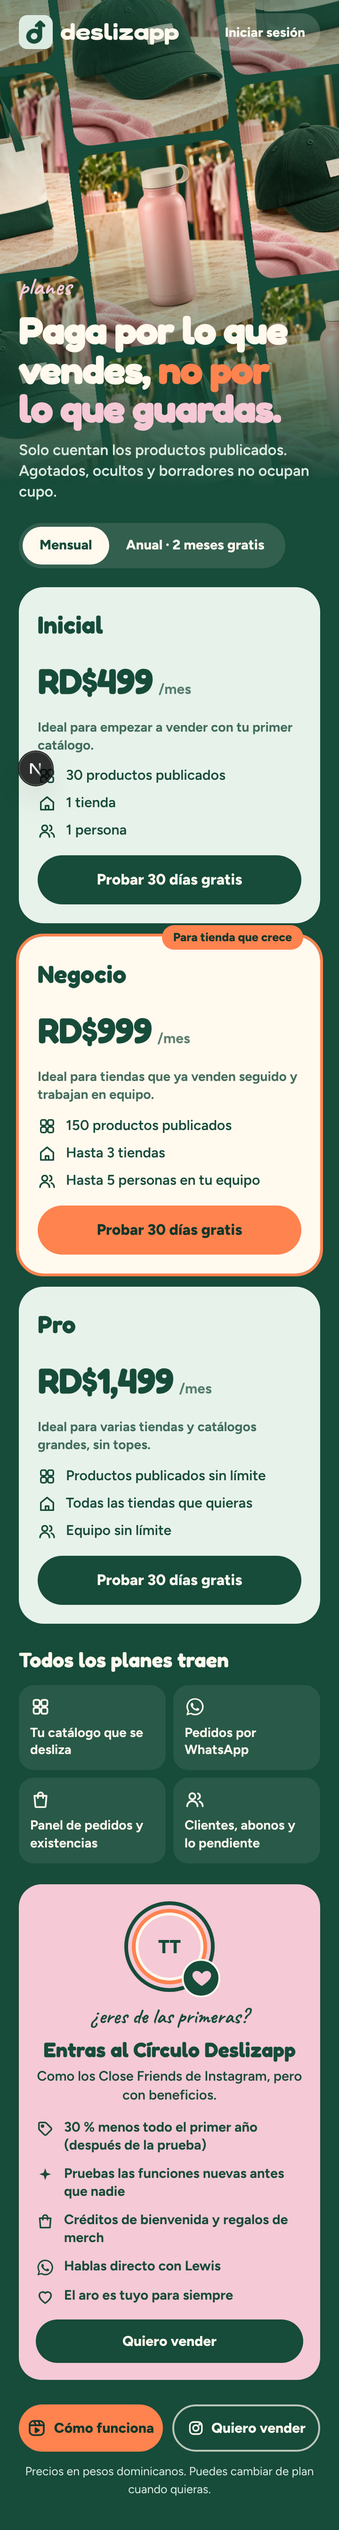
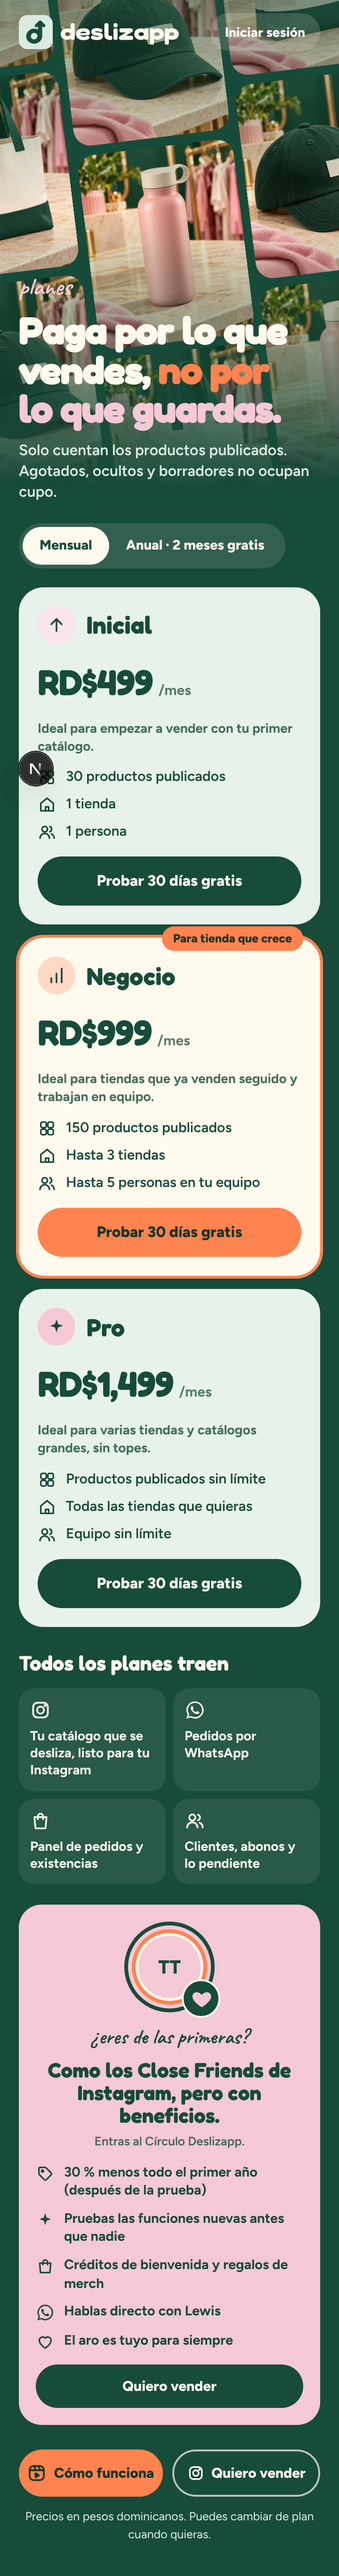
/planes: tagline grande en la tarjeta del Círculo, insignia por plan, tarjeta de Instagram; IconoBarras
Claude-Session: https://claude.ai/code/session_01NZFN1xw2rtVGywTawbCJGm

Changed region(s): [[0.0, 0.0, 1.0, 0.9659], [0.7944, 0.9347, 0.8861, 0.9659], [0.0917, 0.9347, 0.1222, 0.9659]]

diff --git a/components/planes/lista-planes.tsx b/components/planes/lista-planes.tsx
@@ -3,13 +3,23 @@
 import { useState } from "react";
 import { entrarConGoogle } from "@/lib/data/sesion";
 import { limitesDe, precioDe, type PlanPublico } from "@/lib/planes/planes";
-import { IconoCasa, IconoCatalogo, IconoClientes } from "../iconos";
+import { IconoBarras, IconoCasa, IconoCatalogo, IconoChispa, IconoClientes, IconoFlechaArriba } from "../iconos";
 import { registrarEvento } from "@/lib/medicion/registrar-evento";
 
 const DIAS_DE_PRUEBA = 30;
 
 /** El icono de cada límite, los mismos de la app: Catálogo (productos), Casa (tiendas) y Clientes (el de «Tu equipo»). */
 const ICONO_LIMITE = { productos: IconoCatalogo, tiendas: IconoCasa, personas: IconoClientes } as const;
+
+/**
+ * La insignia de cada plan, a la izquierda del nombre (40 px): Inicial empieza (flecha que sube), Negocio crece (barras), Pro llega
+ * más lejos (chispa). Un plan nuevo sin insignia aquí sale sin ella.
+ */
+const INSIGNIA_PLAN: Record<string, { Icono: typeof IconoBarras; fondo: string }> = {
+  inicial: { Icono: IconoFlechaArriba, fondo: "#FBE4EB" },
+  negocio: { Icono: IconoBarras, fondo: "#FFD9C6" },
+  pro: { Icono: IconoChispa, fondo: "#F5C9D6" },
+};
 
 /** El selector Mensual / Anual y las tarjetas de cada plan. «Probar 30 días gratis» lleva a Google y, de ahí, al onboarding. */
 export function ListaPlanes({ planes }: { planes: PlanPublico[] }) {
@@ -58,7 +68,17 @@ export function ListaPlanes({ planes }: { planes: PlanPublico[] }) {
           return (
             <article key={p.id} className="pl-plan" data-destacado={p.destacado ? "si" : "no"} data-plan={p.id}>
               {p.destacado && <span className="pl-etiqueta">Para tienda que crece</span>}
-              <h2>{p.nombre}</h2>
+              <div className="pl-cabeza">
+                {INSIGNIA_PLAN[p.id] && (
+                  <span className="pl-insignia" style={{ background: INSIGNIA_PLAN[p.id]!.fondo }} data-insignia={p.id} aria-hidden="true">
+                    {(() => {
+                      const Icono = INSIGNIA_PLAN[p.id]!.Icono;
+                      return <Icono tamano={22} />;
+                    })()}
+                  </span>
+                )}
+                <h2>{p.nombre}</h2>
+              </div>
               <div className="pl-precio">
                 <b data-precio>{precio}</b>
                 <span>{periodo}</span>

diff --git a/components/planes/pagina-planes.tsx b/components/planes/pagina-planes.tsx
@@ -2,7 +2,7 @@ import Link from "next/link";
 import type { FotoInicio } from "@/lib/inicio/fotos";
 import { ENLACE_QUIERO_VENDER, RUTA_CONOCE } from "@/lib/landing/enlaces";
 import type { PlanPublico } from "@/lib/planes/planes";
-import { IconoBolsa, IconoCatalogo, IconoChispa, IconoClientes, IconoCorazon, IconoEtiqueta, IconoInstagram, IconoPedidos, IconoReels, IconoWhatsApp } from "../iconos";
+import { IconoBolsa, IconoChispa, IconoClientes, IconoCorazon, IconoEtiqueta, IconoInstagram, IconoPedidos, IconoReels, IconoWhatsApp } from "../iconos";
 import { LogoTienda } from "../panel/logo-tienda";
 import { FeedFondo } from "../inicio-publico/feed-fondo";
 import "../inicio-publico/pagina-principal.css";
@@ -10,7 +10,7 @@ import { ListaPlanes } from "./lista-planes";
 import "./pagina-planes.css";
 
 const INCLUYE = [
-  { Icono: IconoCatalogo, texto: "Tu catálogo que se desliza" },
+  { Icono: IconoInstagram, texto: "Tu catálogo que se desliza, listo para tu Instagram" },
   { Icono: IconoWhatsApp, texto: "Pedidos por WhatsApp" },
   { Icono: IconoPedidos, texto: "Panel de pedidos y existencias" },
   { Icono: IconoClientes, texto: "Clientes, abonos y lo pendiente" },
@@ -77,8 +77,8 @@ export function PaginaPlanes({ planes, fotos }: { planes: PlanPublico[]; fotos: 
         <aside className="pl-fundadoras" data-fundadoras>
           <LogoTienda tienda={TIENDA_EJEMPLO} tamano={96} />
           <span className="pl-fundadoras-sobre">¿eres de las primeras?</span>
-          <h2>Entras al Círculo Deslizapp</h2>
-          <p>Como los Close Friends de Instagram, pero con beneficios.</p>
+          <h2>Como los Close Friends de Instagram, pero con beneficios.</h2>
+          <p className="pl-fundadoras-entras">Entras al Círculo Deslizapp.</p>
           <ul className="pl-beneficios">
             {BENEFICIOS_CIRCULO.map(({ Icono, texto }) => (
               <li key={texto}>

diff --git a/app/diseno/guia.tsx b/app/diseno/guia.tsx
@@ -5,6 +5,7 @@ import { LogoTienda } from "@/components/panel/logo-tienda";
 import tokens from "@/referencias/sistema-de-diseno/tokens.json";
 import { CARTAS_JUGADAS, lineaJugada } from "@/lib/proxima-jugada";
 import {
+  IconoBarras,
   IconoBuscar,
   IconoCamion,
   IconoCheck,
@@ -811,6 +812,7 @@ function Iconos() {
     ["Despachar", <IconoCamion key="d" tamano={20} strokeWidth={2.2} />],
     ["Abono", <IconoMoneda key="m" tamano={20} strokeWidth={2.2} />],
     ["Abrir", <IconoChevronDerecha key="a" tamano={20} strokeWidth={2.2} />],
+    ["Crecer", <IconoBarras key="g" tamano={20} strokeWidth={2.2} />],
   ];
   return (
     <Seccion numero="15" titulo="Iconos" nota="Trazo 2.2, puntas redondeadas. 20 px normal, 24 en la barra, 16 en etiquetas.">

diff --git a/components/planes/pagina-planes.css b/components/planes/pagina-planes.css
@@ -165,6 +165,20 @@ html:has(.pl) body {
   font-weight: 700;
   font-size: 26px;
 }
+.pl-cabeza {
+  display: flex;
+  align-items: center;
+  gap: 12px;
+}
+.pl-insignia {
+  flex: none;
+  display: grid;
+  place-items: center;
+  width: 40px;
+  height: 40px;
+  border-radius: 50%;
+  color: var(--marca-bosque);
+}
 .pl-etiqueta {
   position: absolute;
   top: -12px;
@@ -317,6 +331,10 @@ html:has(.pl) body {
   font-weight: 600;
   font-size: 14.5px;
   line-height: 1.4;
+}
+.pl-fundadoras .pl-fundadoras-entras {
+  font-size: 13px;
+  opacity: 0.8;
 }
 .pl-beneficios {
   display: flex;

diff --git a/components/iconos.tsx b/components/iconos.tsx
@@ -146,6 +146,15 @@ export const IconoFlechaArriba = (p: Props) => (
   </Icono>
 );
 
+/** Tres barras que van subiendo (crecer): la insignia del plan Negocio en /planes. */
+export const IconoBarras = (p: Props) => (
+  <Icono {...p}>
+    <path d="M6 20v-5" />
+    <path d="M12 20V10" />
+    <path d="M18 20V4" />
+  </Icono>
+);
+
 export const IconoChevronAbajo = (p: Props) => (
   <Icono {...p}>
     <path d="m6 9 6 6 6-6" />
